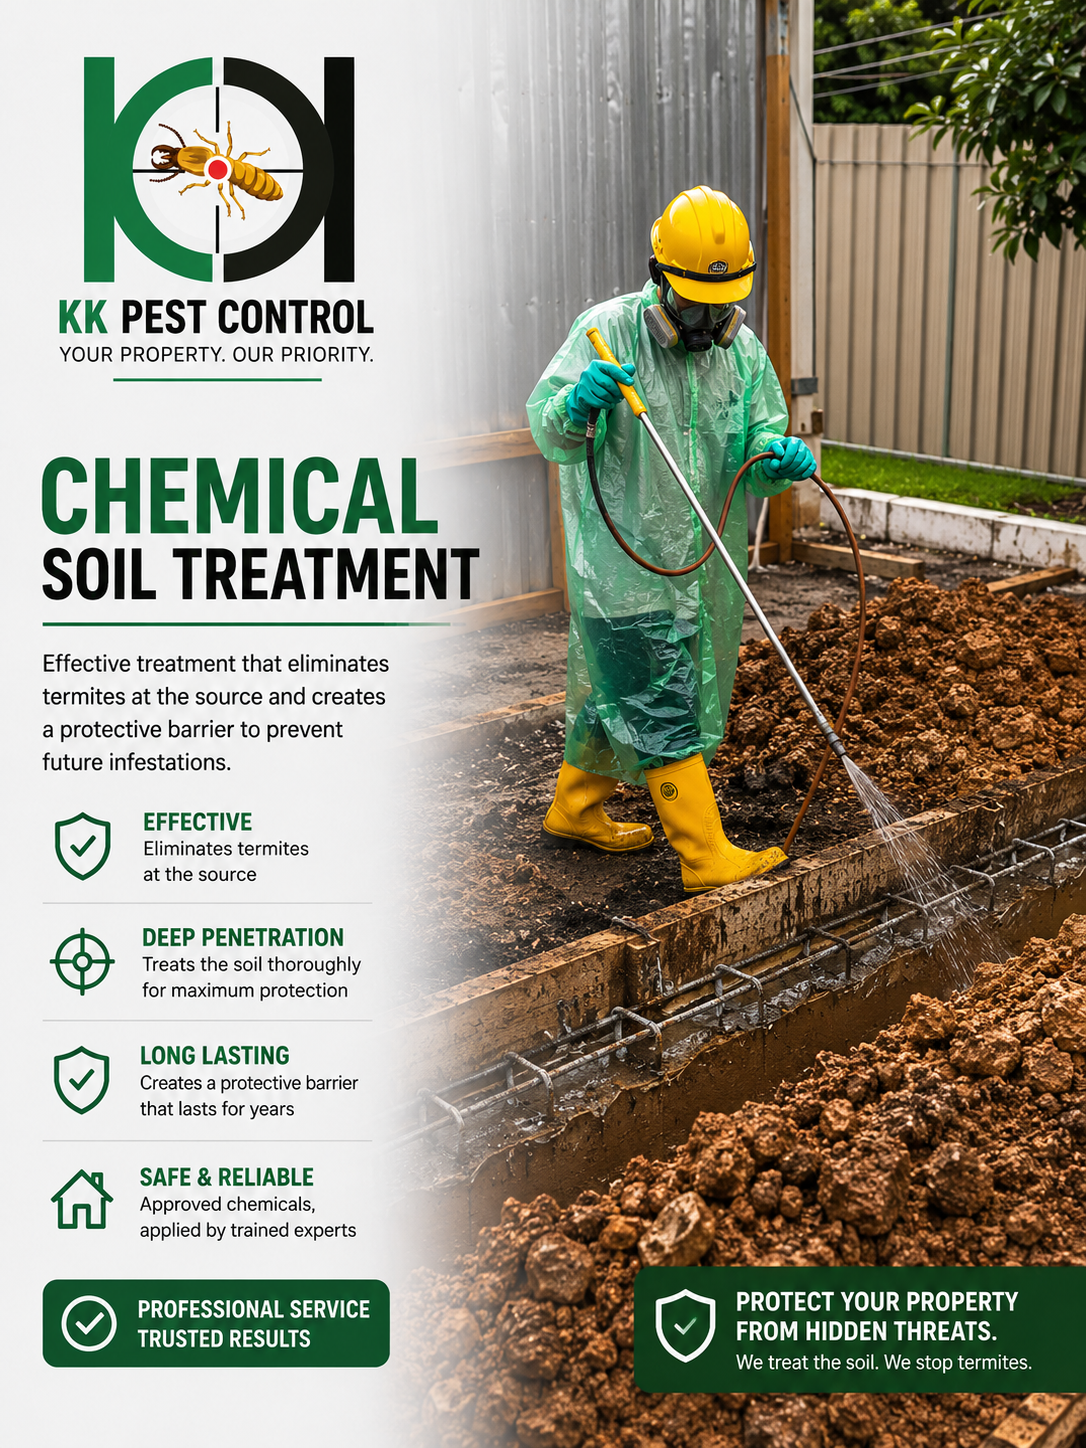
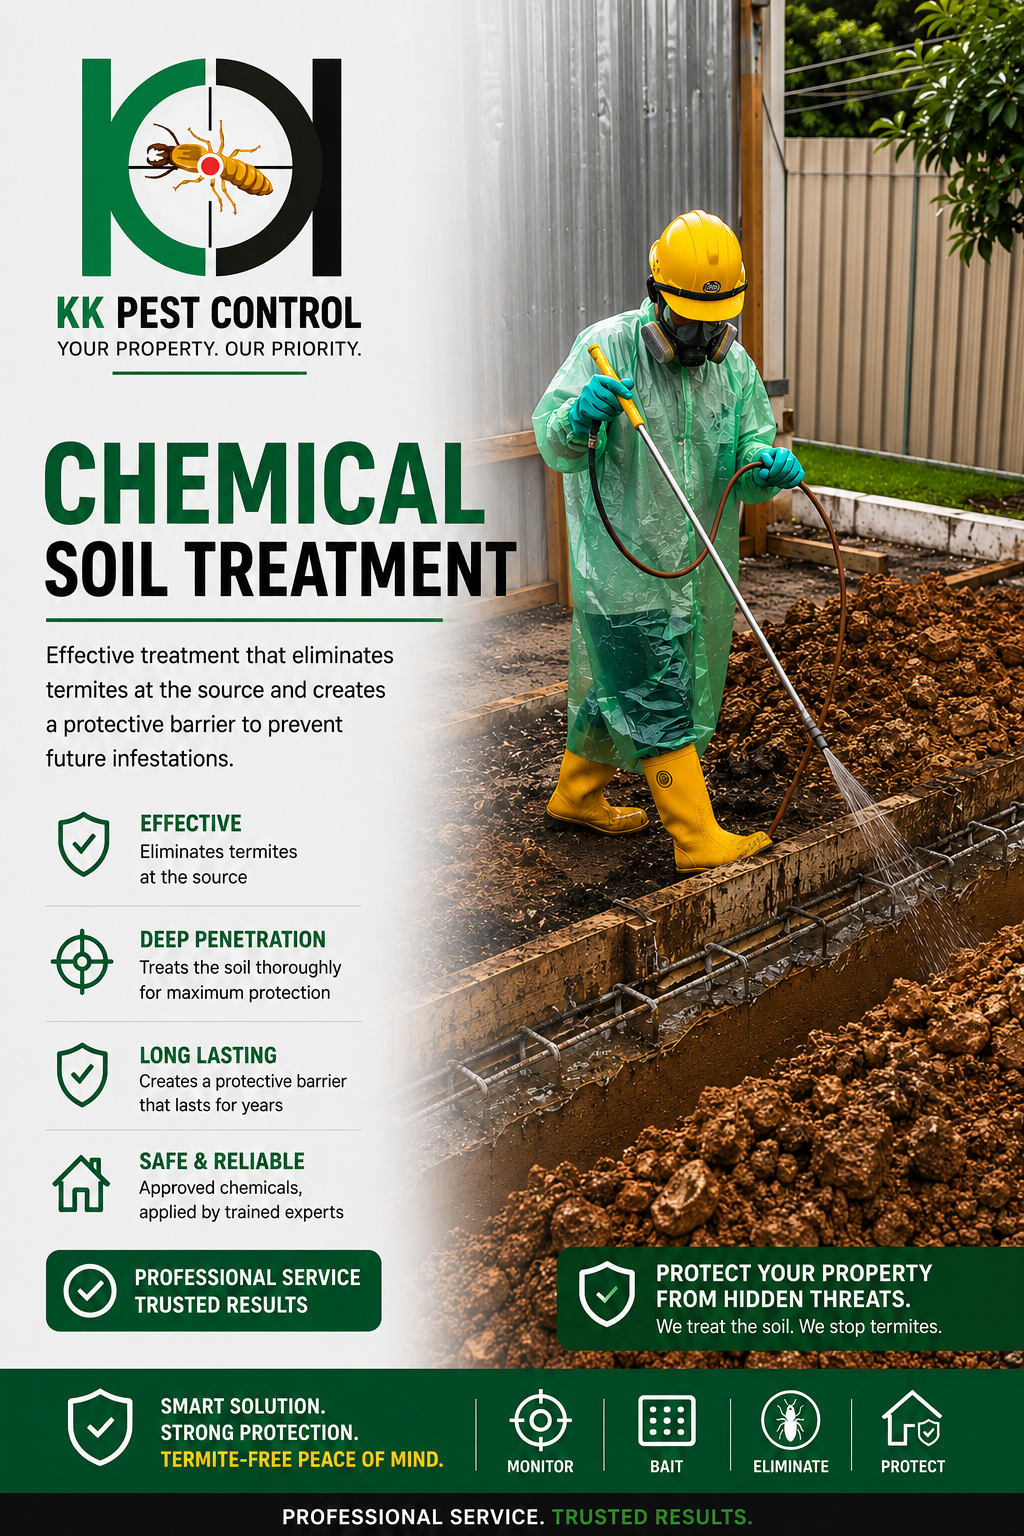
Added full termite services

diff --git a/kk-pest-control-termite-subservices.html b/kk-pest-control-termite-subservices.html
@@ -456,6 +456,72 @@
         }
 
 
+        /* GROUPED SERVICE SECTIONS */
+        .service-group-intro {
+            background: linear-gradient(135deg, rgba(10, 125, 95, 0.08), rgba(255, 149, 0, 0.08));
+            border: 2px solid rgba(10, 125, 95, 0.16);
+            border-left: 6px solid var(--primary);
+        }
+
+        .service-group-label {
+            display: inline-flex;
+            align-items: center;
+            width: fit-content;
+            padding: 8px 14px;
+            border-radius: 999px;
+            background: var(--primary);
+            color: white;
+            font-size: 13px;
+            font-weight: 800;
+            letter-spacing: 0.5px;
+            text-transform: uppercase;
+            margin-bottom: 14px;
+        }
+
+        .service-group-methods {
+            display: grid;
+            grid-template-columns: repeat(auto-fit, minmax(220px, 1fr));
+            gap: 16px;
+            margin-top: 24px;
+        }
+
+        .service-group-method {
+            background: white;
+            border: 1px solid var(--border);
+            border-radius: var(--radius-md);
+            padding: 18px;
+            box-shadow: var(--shadow-sm);
+        }
+
+        .service-group-method strong {
+            display: block;
+            color: var(--primary-dark);
+            font-size: 16px;
+            margin-bottom: 6px;
+        }
+
+        .service-group-method span {
+            color: var(--text-muted);
+            font-size: 14px;
+            line-height: 1.5;
+        }
+
+        .service-method-badge {
+            display: inline-flex;
+            align-items: center;
+            width: fit-content;
+            padding: 7px 12px;
+            border-radius: 999px;
+            background: rgba(10, 125, 95, 0.08);
+            color: var(--primary-dark);
+            font-size: 12px;
+            font-weight: 800;
+            letter-spacing: 0.4px;
+            text-transform: uppercase;
+            margin-bottom: 16px;
+        }
+
+
 
 
         /* SERVICE IMAGE LIGHTBOX */
@@ -1417,9 +1483,9 @@
                     <div class="service-icon">🐜</div>
                     <h3 class="t" data-en="Termite Control" data-my="Kawalan Anai-anai">Termite Control</h3>
                     <p class="t"
-                        data-en="Protect your home or business with termite baiting, colony control, monitoring, and prevention plans."
-                        data-my="Lindungi rumah atau premis anda dengan umpan anai-anai, kawalan koloni, pemantauan dan pelan pencegahan.">
-                        Protect your home or business with termite baiting, colony control, monitoring, and prevention plans.</p>
+                        data-en="Protect your home or business with termite baiting systems, soil treatment, colony control, monitoring, and prevention plans."
+                        data-my="Lindungi rumah atau premis anda dengan sistem umpan anai-anai, rawatan tanah, kawalan koloni, pemantauan dan pelan pencegahan.">
+                        Protect your home or business with termite baiting systems, soil treatment, colony control, monitoring, and prevention plans.</p>
                 </div>
                 <div class="service-card">
                     <div class="service-icon">🪳</div>
@@ -1509,8 +1575,32 @@
         </div>
 
         <!-- Service cards -->
-        <!-- Termite Control -->
-        <div class="card fade-in service-detail-card">
+        <!-- Termite Control Group -->
+        <div class="card fade-in service-group-intro">
+            <span class="service-group-label t" data-en="Termite Control Solutions" data-my="Penyelesaian Kawalan Anai-anai">Termite Control Solutions</span>
+            <h3 class="t" data-en="Three termite methods under one complete service" data-my="Tiga kaedah anai-anai di bawah satu perkhidmatan lengkap">Three termite methods under one complete service</h3>
+            <p class="t"
+                data-en="Different termite problems need different treatment methods. KK Pest Control provides baiting systems, chemical soil treatment, and corrective soil treatment depending on the property condition, infestation level, and protection goal."
+                data-my="Masalah anai-anai yang berbeza memerlukan kaedah rawatan yang berbeza. KK Pest Control menyediakan sistem umpan, rawatan tanah kimia dan rawatan tanah korektif bergantung kepada keadaan premis, tahap serangan dan tujuan perlindungan.">
+                Different termite problems need different treatment methods. KK Pest Control provides baiting systems, chemical soil treatment, and corrective soil treatment depending on the property condition, infestation level, and protection goal.</p>
+            <div class="service-group-methods">
+                <div class="service-group-method">
+                    <strong class="t" data-en="Termite Baiting System" data-my="Sistem Umpan Anai-anai">Termite Baiting System</strong>
+                    <span class="t" data-en="For colony elimination and long-term monitoring." data-my="Untuk penghapusan koloni dan pemantauan jangka panjang.">For colony elimination and long-term monitoring.</span>
+                </div>
+                <div class="service-group-method">
+                    <strong class="t" data-en="Chemical Soil Treatment" data-my="Rawatan Tanah Kimia">Chemical Soil Treatment</strong>
+                    <span class="t" data-en="For soil barrier protection around or under a property." data-my="Untuk perlindungan halangan tanah di sekeliling atau bawah premis.">For soil barrier protection around or under a property.</span>
+                </div>
+                <div class="service-group-method">
+                    <strong class="t" data-en="Corrective Soil Treatment" data-my="Rawatan Tanah Korektif">Corrective Soil Treatment</strong>
+                    <span class="t" data-en="For active termite infestations in existing buildings." data-my="Untuk serangan anai-anai aktif di bangunan sedia ada.">For active termite infestations in existing buildings.</span>
+                </div>
+            </div>
+        </div>
+
+        <!-- Termite Method: Baiting System -->
+        <div class="card fade-in service-detail-card termite-method-card">
             <div class="service-detail-layout">
                 <div>
                     <div class="service-image-wrap">
@@ -1520,10 +1610,11 @@
                     </div>
                 </div>
                 <div>
+                    <span class="service-method-badge t" data-en="Termite Control Method" data-my="Kaedah Kawalan Anai-anai">Termite Control Method</span>
                     <div style="display: flex; align-items: center; gap: 16px; margin-bottom: 20px;">
                         <div class="service-icon" style="margin: 0;">🐜</div>
-                        <h3 class="t" data-en="Termite Control" data-my="Kawalan Anai-anai"
-                            style="margin: 0; text-align: left;">Termite Control</h3>
+                        <h3 class="t" data-en="Termite Baiting System" data-my="Sistem Umpan Anai-anai"
+                            style="margin: 0; text-align: left;">Termite Baiting System</h3>
                     </div>
 
                     <p class="t"
@@ -1553,6 +1644,115 @@
                     </div>
                 </div>
             </div>
+        </div>
+
+        <!-- Termite Method: Chemical Soil Treatment -->
+        <div class="card fade-in service-detail-card termite-method-card">
+            <div class="service-detail-layout">
+                <div>
+                    <div class="service-image-wrap">
+                        <img class="service-detail-image" src="./images/services/service-chemical-soil.png"
+                            alt="Chemical soil treatment termite service image"
+                            onerror="this.style.display='none'; this.nextElementSibling.style.display='flex';">
+                        <div class="service-detail-image-placeholder">
+                            <span>🐜</span>
+                            <small>Replace image: ./images/services/service-chemical-soil.png</small>
+                        </div>
+                    </div>
+                </div>
+                <div>
+                    <span class="service-method-badge t" data-en="Termite Control Method" data-my="Kaedah Kawalan Anai-anai">Termite Control Method</span>
+                    <div style="display: flex; align-items: center; gap: 16px; margin-bottom: 20px;">
+                        <div class="service-icon" style="margin: 0;">🛡</div>
+                        <h3 class="t" data-en="Chemical Soil Treatment" data-my="Rawatan Tanah Kimia"
+                            style="margin: 0; text-align: left;">Chemical Soil Treatment</h3>
+                    </div>
+
+                    <p class="t"
+                        data-en="Chemical soil treatment creates a protective treated barrier around or under the property to stop termites from entering and reduce the risk of future infestation."
+                        data-my="Rawatan tanah kimia membentuk halangan perlindungan di sekeliling atau bawah premis untuk menghalang anai-anai masuk dan mengurangkan risiko serangan akan datang.">
+                        Chemical soil treatment creates a protective treated barrier around or under the property to stop termites from entering and reduce the risk of future infestation.</p>
+
+                    <h4 class="t" data-en="What We Do:" data-my="Apa Yang Kami Buat:"
+                        style="margin-top: 24px; color: var(--primary);">What We Do:</h4>
+                    <ul class="features-list">
+                        <li class="t" data-en="Inspect the property perimeter and soil treatment zones"
+                            data-my="Periksa perimeter premis dan zon rawatan tanah">Inspect the property perimeter and soil treatment zones</li>
+                        <li class="t" data-en="Apply approved chemicals into targeted soil areas"
+                            data-my="Aplikasikan bahan kimia yang diluluskan ke kawasan tanah bersasar">Apply approved chemicals into targeted soil areas</li>
+                        <li class="t" data-en="Create a treated barrier for deep, long-lasting protection"
+                            data-my="Bentuk halangan rawatan untuk perlindungan mendalam dan tahan lama">Create a treated barrier for deep, long-lasting protection</li>
+                        <li class="t" data-en="Recommend prevention steps for future termite risk"
+                            data-my="Cadangkan langkah pencegahan untuk risiko anai-anai akan datang">Recommend prevention steps for future termite risk</li>
+                    </ul>
+
+                    <div
+                        style="background: rgba(10, 125, 95, 0.05); padding: 20px; border-radius: 12px; margin-top: 24px;">
+                        <p style="margin: 0; font-weight: 600;" class="t"
+                            data-en="Best for construction, renovation, perimeter protection, and properties that need a strong soil barrier."
+                            data-my="Sesuai untuk pembinaan, renovasi, perlindungan perimeter dan premis yang memerlukan halangan tanah yang kuat.">Best for construction, renovation, perimeter protection, and properties that need a strong soil barrier.</p>
+                    </div>
+                </div>
+            </div>
+        </div>
+
+        <!-- Termite Method: Corrective Soil Treatment -->
+        <div class="card fade-in service-detail-card termite-method-card">
+            <div class="service-detail-layout">
+                <div>
+                    <div class="service-image-wrap">
+                        <img class="service-detail-image" src="./images/services/service-corrective-soil.png"
+                            alt="Corrective soil treatment termite service image"
+                            onerror="this.style.display='none'; this.nextElementSibling.style.display='flex';">
+                        <div class="service-detail-image-placeholder">
+                            <span>🐜</span>
+                            <small>Replace image: ./images/services/service-corrective-soil.png</small>
+                        </div>
+                    </div>
+                </div>
+                <div>
+                    <span class="service-method-badge t" data-en="Termite Control Method" data-my="Kaedah Kawalan Anai-anai">Termite Control Method</span>
+                    <div style="display: flex; align-items: center; gap: 16px; margin-bottom: 20px;">
+                        <div class="service-icon" style="margin: 0;">🎯</div>
+                        <h3 class="t" data-en="Corrective Soil Treatment" data-my="Rawatan Tanah Korektif"
+                            style="margin: 0; text-align: left;">Corrective Soil Treatment</h3>
+                    </div>
+
+                    <p class="t"
+                        data-en="Corrective soil treatment is used for active termite problems in existing buildings, with targeted soil injection to treat termite entry zones and protect against further damage."
+                        data-my="Rawatan tanah korektif digunakan untuk masalah anai-anai aktif di bangunan sedia ada, dengan suntikan tanah bersasar untuk merawat zon kemasukan anai-anai dan melindungi daripada kerosakan lanjut.">
+                        Corrective soil treatment is used for active termite problems in existing buildings, with targeted soil injection to treat termite entry zones and protect against further damage.</p>
+
+                    <h4 class="t" data-en="What We Do:" data-my="Apa Yang Kami Buat:"
+                        style="margin-top: 24px; color: var(--primary);">What We Do:</h4>
+                    <ul class="features-list">
+                        <li class="t" data-en="Identify active termite zones and likely entry points"
+                            data-my="Kenal pasti zon anai-anai aktif dan titik masuk yang berkemungkinan">Identify active termite zones and likely entry points</li>
+                        <li class="t" data-en="Inject treatment directly into targeted soil areas"
+                            data-my="Suntik rawatan terus ke kawasan tanah bersasar">Inject treatment directly into targeted soil areas</li>
+                        <li class="t" data-en="Treat hidden pathways near walls, doors, and structural edges"
+                            data-my="Rawat laluan tersembunyi berhampiran dinding, pintu dan tepi struktur">Treat hidden pathways near walls, doors, and structural edges</li>
+                        <li class="t" data-en="Provide follow-up advice for long-term termite control"
+                            data-my="Berikan nasihat susulan untuk kawalan anai-anai jangka panjang">Provide follow-up advice for long-term termite control</li>
+                    </ul>
+
+                    <div
+                        style="background: rgba(10, 125, 95, 0.05); padding: 20px; border-radius: 12px; margin-top: 24px;">
+                        <p style="margin: 0; font-weight: 600;" class="t"
+                            data-en="Best for existing homes, shoplots, offices, and buildings with active termite activity or visible signs of termite entry."
+                            data-my="Sesuai untuk rumah, lot kedai, pejabat dan bangunan sedia ada yang mempunyai aktiviti anai-anai aktif atau tanda kemasukan anai-anai.">Best for existing homes, shoplots, offices, and buildings with active termite activity or visible signs of termite entry.</p>
+                    </div>
+                </div>
+            </div>
+        </div>
+
+        <!-- Other Pest Control Services -->
+        <div class="text-center mb-4" style="margin-top: 52px;">
+            <h2 class="t" data-en="Other Pest Control Services" data-my="Perkhidmatan Kawalan Serangga Lain">Other Pest Control Services</h2>
+            <p class="t"
+                data-en="Additional pest control services for homes, offices, restaurants, commercial spaces, and outdoor areas."
+                data-my="Perkhidmatan kawalan serangga tambahan untuk rumah, pejabat, restoran, premis komersial dan kawasan luar.">
+                Additional pest control services for homes, offices, restaurants, commercial spaces, and outdoor areas.</p>
         </div>
 
         <!-- Cockroach Treatment -->
@@ -1705,7 +1905,7 @@
             <div class="service-detail-layout">
                 <div>
                     <div class="service-image-wrap">
-                        <img class="service-detail-image" src="./images/services/service-bed-bug.png"
+                        <img class="service-detail-image" src="./images/services/service-bed-bugs.png"
                             alt="Bed bug treatment service image"
                             onerror="this.style.display='none'; this.nextElementSibling.style.display='flex';">
                     </div>
